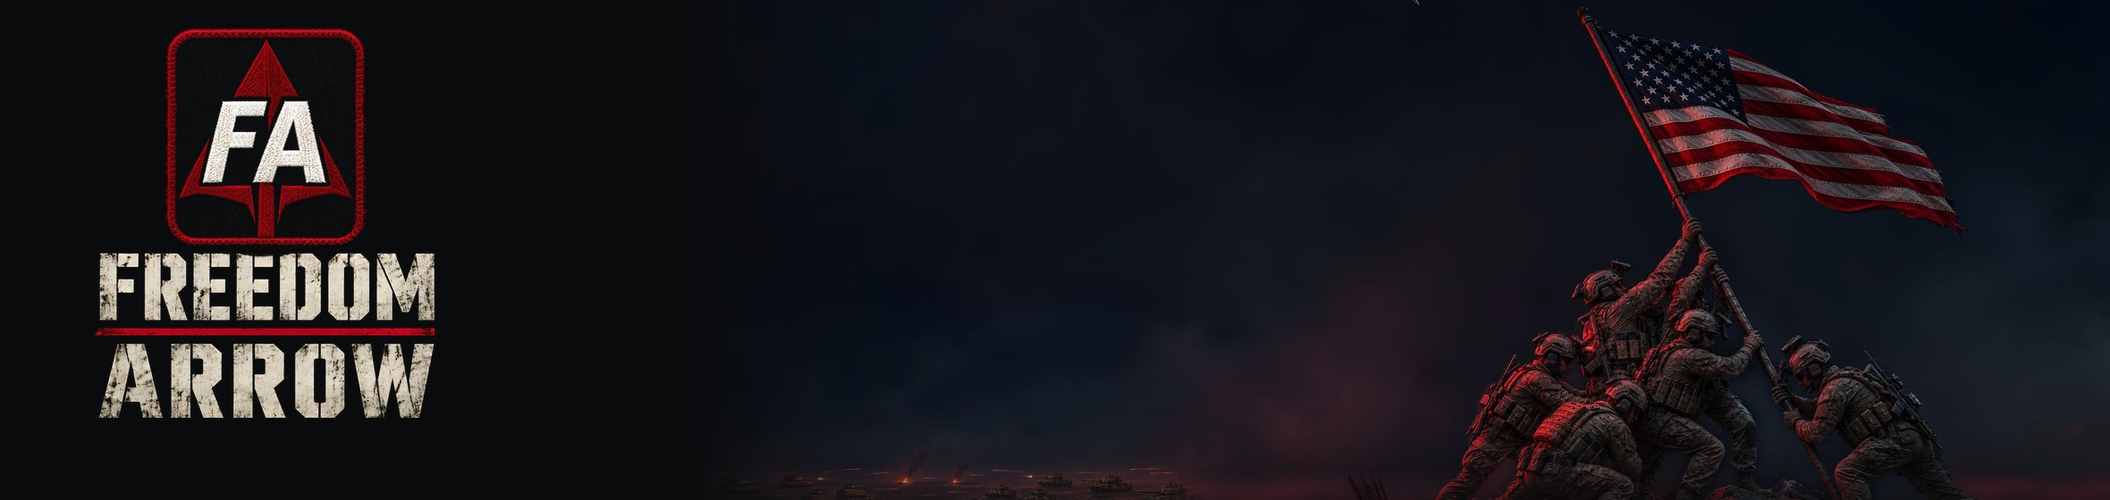
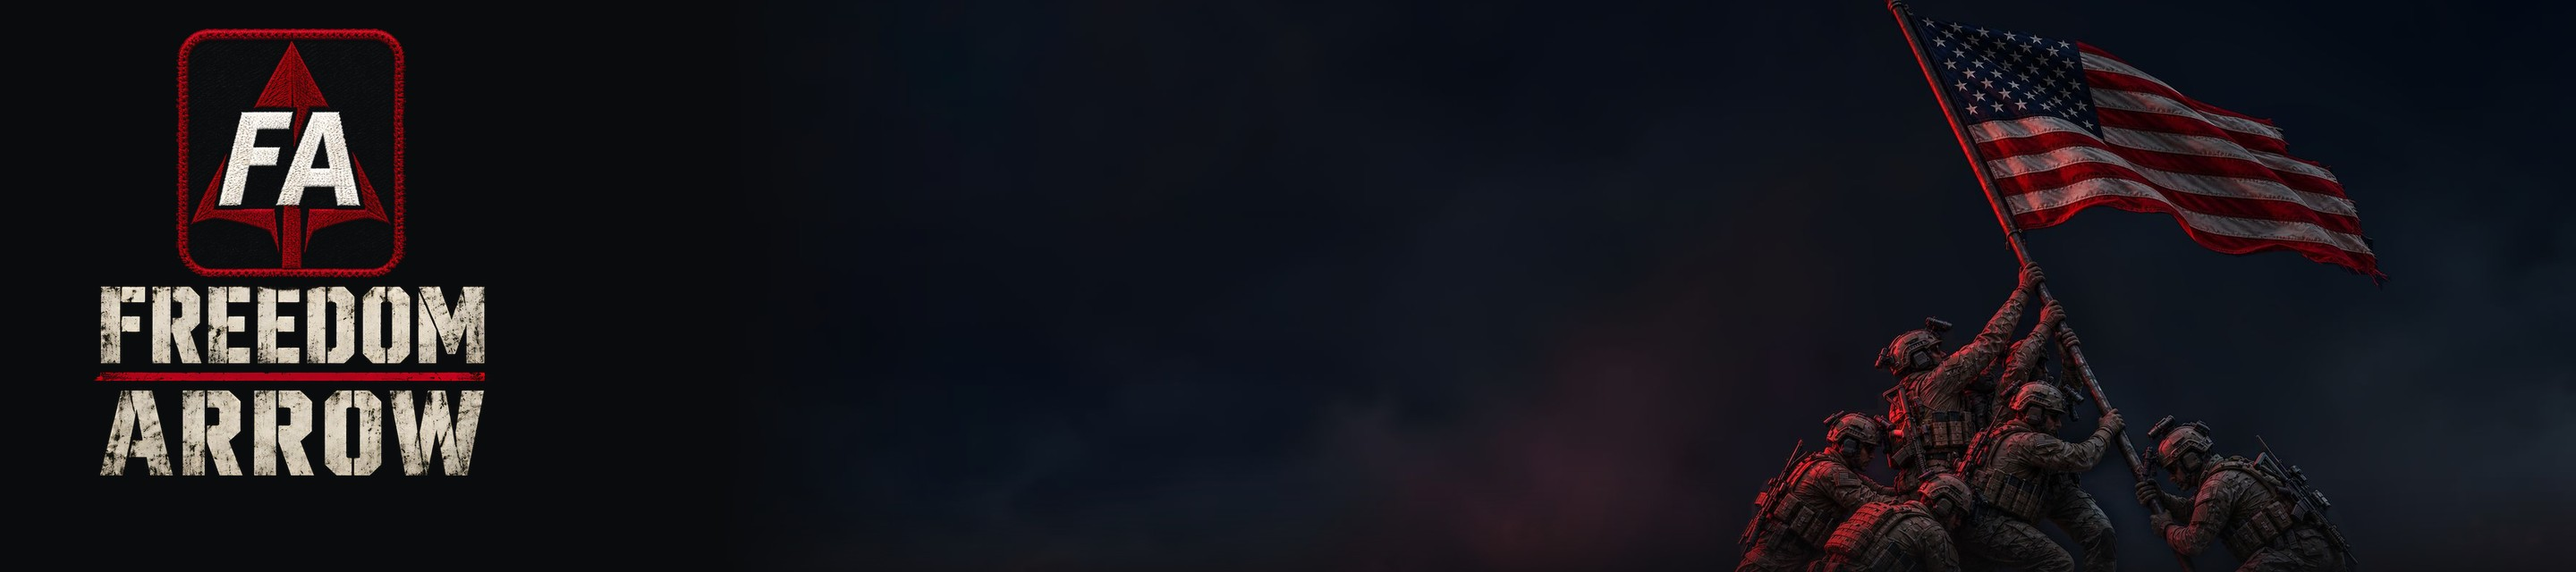
Launcher 1.1.15: 1440x960 window, News column 960 px (Osama: more room for news and patch notes)
- 1440x960 window, 1440x320 header (new fa_banner.jpg from make_launcher_banner.py),
  News 960 px: features and patch notes about 450 px each, slimmer stat tiles,
  'Full notes' link beside the PATCH NOTES heading, feature picture right under its text.
- FitScreen: on smaller screens the News column narrows (to 520), then the window
  height and header shrink; the PLAY column never does. Header buttons and the
  version tag stay at the top right at any width.

diff --git a/thirdparty-tools/BAModManager-main/Ui/NewsPanel.cs b/thirdparty-tools/BAModManager-main/Ui/NewsPanel.cs
@@ -11,7 +11,7 @@ namespace BAModManager.Ui;
 /// </summary>
 internal sealed class NewsPanel : Panel
 {
-    private readonly StatTiles _tiles = new() { Dock = DockStyle.Top, Height = 78 };
+    private readonly StatTiles _tiles = new() { Dock = DockStyle.Top, Height = 68 };
     private readonly RichTextBox _notes;
     private readonly Button _more;
     private string _link = LauncherNews.Site;
@@ -43,15 +43,16 @@ internal sealed class NewsPanel : Panel
         };
         // Windows 10/11 dark scroll bar, like the rest of the launcher (ignored where the theme doesn't exist)
         _notes.HandleCreated += (_, _) => { try { SetWindowTheme(_notes.Handle, "DarkMode_Explorer", null); } catch (Exception) { } };
-        _more = Theme.MakeButton(T("Full patch notes and statistics →"), ButtonKind.Ghost);
-        _more.Dock = DockStyle.Bottom;
-        _more.AutoSize = false;
-        _more.Height = 34;
+        _more = Theme.MakeButton(T("Full notes →"), ButtonKind.Ghost);
+        _more.Dock = DockStyle.Right;   // beside the PATCH NOTES heading, so the notes get the height
+        _more.AutoSize = true;
         _more.Click += (_, _) => LauncherNews.Open(_link);
 
         _featureTitle = new Label { Dock = DockStyle.Top, Height = 28, Font = Theme.Head(15f), ForeColor = Theme.Text, BackColor = Theme.Panel, UseMnemonic = false };
-        _featureText = new Label { Dock = DockStyle.Top, Height = 62, ForeColor = Theme.TextMuted, BackColor = Theme.Panel, UseMnemonic = false };
-        _featureImage = new PictureBox { Dock = DockStyle.Fill, SizeMode = PictureBoxSizeMode.Zoom, BackColor = Theme.Panel, Cursor = Cursors.Hand };
+        _featureText = new Label { Dock = DockStyle.Top, Height = 48, ForeColor = Theme.TextMuted, BackColor = Theme.Panel, UseMnemonic = false };
+        // full column width, its own height: the picture sits right under the text
+        _featureImage = new PictureBox { Dock = DockStyle.Top, SizeMode = PictureBoxSizeMode.Zoom, BackColor = Theme.Panel, Cursor = Cursors.Hand, Height = 0 };
+        _featureImage.Resize += (_, _) => FitImage();
         _featureImage.Click += (_, _) => LauncherNews.Open(LauncherNews.Site);
         _feature = new Panel { Dock = DockStyle.Fill, BackColor = Theme.Panel, Margin = new Padding(0, 0, 14, 0) };
         _feature.Controls.Add(_featureImage);
@@ -60,9 +61,13 @@ internal sealed class NewsPanel : Panel
         _feature.Controls.Add(_featureTitle);
         _feature.Controls.Add(Title(T("NEW FEATURES")));
         var notes = new Panel { Dock = DockStyle.Fill, BackColor = Theme.Panel, Margin = new Padding(14, 0, 0, 0) };
+        var notesHead = new Panel { Dock = DockStyle.Top, Height = 30, BackColor = Theme.Panel };
+        var notesTitle = Title(T("PATCH NOTES"));
+        notesTitle.Dock = DockStyle.Fill;
+        notesHead.Controls.Add(notesTitle);
+        notesHead.Controls.Add(_more);
         notes.Controls.Add(_notes);
-        notes.Controls.Add(Title(T("PATCH NOTES")));
-        notes.Controls.Add(_more);
+        notes.Controls.Add(notesHead);
         _cols = new TableLayoutPanel { Dock = DockStyle.Fill, BackColor = Theme.Panel, ColumnCount = 2, RowCount = 1, Margin = Padding.Empty, Padding = Padding.Empty };
         _cols.ColumnStyles.Add(new ColumnStyle(SizeType.Absolute, 0));   // the features column opens when a feature arrives
         _cols.ColumnStyles.Add(new ColumnStyle(SizeType.Percent, 100));
@@ -72,7 +77,7 @@ internal sealed class NewsPanel : Panel
 
         // Docked top controls are added bottom-up
         Controls.Add(_cols);
-        Controls.Add(Gap(14));
+        Controls.Add(Gap(12));
         Controls.Add(_tiles);
         Controls.Add(Title(T("BATTLEFIELD REPORT")));
         ShowText(T("Loading news…"));
@@ -111,8 +116,16 @@ internal sealed class NewsPanel : Panel
         {
             _imageData = new MemoryStream(bytes);
             _featureImage.Image = Image.FromStream(_imageData);   // PictureBox plays an animated GIF by itself
+            FitImage();
         }
         catch (Exception) { _imageData = null; }
+    }
+
+    private void FitImage()
+    {
+        if (_featureImage.Image is not Image img || img.Width == 0) return;
+        var h = _featureImage.Width * img.Height / img.Width;
+        if (_featureImage.Height != h) _featureImage.Height = h;
     }
 
     private void ShowText(string text)
@@ -242,7 +255,7 @@ internal sealed class NewsPanel : Panel
             int gap = LogicalToDeviceUnits(8);
             int w = (Width - 3 * gap) / 4, h = Height;   // one row of 4
             using var label = Theme.Head(9.5f, semi: true);
-            using var value = Theme.Head(21f);
+            using var value = Theme.Head(19f);
             using var sub = Theme.Ui(8.25f);
             for (int i = 0; i < items.Length; i++)
             {
@@ -254,8 +267,8 @@ internal sealed class NewsPanel : Panel
                 int pad = LogicalToDeviceUnits(10);
                 var f = TextFormatFlags.NoPadding | TextFormatFlags.NoPrefix | TextFormatFlags.EndEllipsis;
                 TextRenderer.DrawText(g, items[i].Label, label, new Rectangle(r.X + pad, r.Y + LogicalToDeviceUnits(8), r.Width - 2 * pad, LogicalToDeviceUnits(16)), Theme.TextMuted, f);
-                TextRenderer.DrawText(g, items[i].Value?.ToString("N0") ?? "—", value, new Rectangle(r.X + pad, r.Y + LogicalToDeviceUnits(24), r.Width - 2 * pad, LogicalToDeviceUnits(32)), Theme.Text, f);
-                TextRenderer.DrawText(g, items[i].Sub, sub, new Rectangle(r.X + pad, r.Bottom - LogicalToDeviceUnits(19), r.Width - 2 * pad, LogicalToDeviceUnits(15)), Theme.TextMuted, f);
+                TextRenderer.DrawText(g, items[i].Value?.ToString("N0") ?? "—", value, new Rectangle(r.X + pad, r.Y + LogicalToDeviceUnits(21), r.Width - 2 * pad, LogicalToDeviceUnits(28)), Theme.Text, f);
+                TextRenderer.DrawText(g, items[i].Sub, sub, new Rectangle(r.X + pad, r.Bottom - LogicalToDeviceUnits(18), r.Width - 2 * pad, LogicalToDeviceUnits(15)), Theme.TextMuted, f);
             }
         }
     }

diff --git a/thirdparty-tools/BAModManager-main/Ui/LauncherForm.cs b/thirdparty-tools/BAModManager-main/Ui/LauncherForm.cs
@@ -62,12 +62,13 @@ internal sealed class LauncherForm : Form
         // condensed headings, and a progress panel that shows steps, MB, speed, time left and when data last arrived.
         // 1.1.15 (Osama 22 Nov 2026): a News column on the right with the Battlefield report and the patch notes.
         // Osama 22 Nov 2026: "make the launcher bigger so more of it is art", "or just more space, its very cramped":
-        // a full-width 1180x280 header and a wider News column. On a short screen (Steam Deck, 800 px) the header gives up
+        // a full-width 1440x320 header and a wide News column. On a smaller screen the window shrinks to fit: the header gives up
         // height first (FitScreen).
-        _news = new NewsPanel { Dock = DockStyle.Right, Width = 700 };   // features and patch notes side by side
-        ClientSize = new Size(1180, 820);
+        // Osama 22 Nov 2026: "news and patch notes should be able to get more room", "no one is playing on steam deck"
+        _news = new NewsPanel { Dock = DockStyle.Right, Width = DesignNewsWidth };   // features and patch notes side by side
+        ClientSize = new Size(DesignWidth, DesignHeight);
         Padding = new Padding(0);
-        var header = new FaBanner(MainForm.LoadEmbeddedImage("Assets.fa_banner.jpg")) { Dock = DockStyle.Top, Height = 280 };
+        var header = new FaBanner(MainForm.LoadEmbeddedImage("Assets.fa_banner.jpg")) { Dock = DockStyle.Top, Height = DesignHeaderHeight };
         // 中文 / English switch, like the button on freedomarrow.app (Osama 21 Nov 2026: "Make sure there's a Chinese switch").
         _lang = Theme.MakeButton(Loc.IsChinese ? "English" : "中文", ButtonKind.Secondary);
         _lang.AutoSize = false;
@@ -75,7 +76,7 @@ internal sealed class LauncherForm : Form
         _lang.MinimumSize = new Size(0, 0);
         _lang.Padding = new Padding(0);
         _lang.Margin = new Padding(0);
-        _lang.Location = new Point(1180 - 72 - 14, 9);
+        _lang.Location = new Point(DesignWidth - 72 - 14, 9);
         _lang.Font = Loc.IsChinese ? Theme.Head(10.5f, semi: true) : new Font("Microsoft YaHei UI", 9f, FontStyle.Bold);
         _lang.BackColor = Theme.Background;
         _lang.Click += (_, _) => ToggleChinese();
@@ -88,7 +89,13 @@ internal sealed class LauncherForm : Form
         site.MinimumSize = new Size(0, 0);
         site.Margin = new Padding(0);
         site.Font = Theme.Head(16f);
-        site.Location = new Point(1180 - 270 - 14, 44);
+        site.Location = new Point(DesignWidth - 270 - 14, 44);
+        // keep both buttons at the top right when the window is narrowed for a small screen (FitScreen)
+        header.Resize += (_, _) =>
+        {
+            _lang.Left = header.Width - _lang.Width - header.LogicalToDeviceUnits(14);
+            site.Left = header.Width - site.Width - header.LogicalToDeviceUnits(14);
+        };
         site.Click += (_, _) => LauncherNews.Open(LauncherNews.Site);
         header.Controls.Add(site);
         var body = new Panel { Dock = DockStyle.Fill, BackColor = Theme.Background, Padding = new Padding(28, 14, 28, 12) };
@@ -300,20 +307,37 @@ internal sealed class LauncherForm : Form
     }
 
     /// <summary>The window taller than the screen (Steam Deck 1280x800): shrink the header art, never the controls.</summary>
+    private const int DesignWidth = 1440, DesignHeight = 960, DesignHeaderHeight = 320, DesignNewsWidth = 960;
+
     private void FitScreen()
     {
-        if (_header == null) return;
+        if (_header == null || _news == null) return;
         // Sizes as designed: Wine/Proton already clamps the window to the screen, so ClientSize may be smaller here.
-        int want = LogicalToDeviceUnits(820), header = LogicalToDeviceUnits(280), frame = Height - ClientSize.Height;
-        // Wine/Proton: + room for a title bar it doesn't count
+        int want = LogicalToDeviceUnits(DesignHeight), header = LogicalToDeviceUnits(DesignHeaderHeight), minHeader = LogicalToDeviceUnits(190),
+            minBody = LogicalToDeviceUnits(540), frameH = Height - ClientSize.Height, frameW = Width - ClientSize.Width;
         var area = Screen.FromControl(this).WorkingArea;
-        var over = want + frame + (LinuxSteam.IsWine ? LogicalToDeviceUnits(40) : 0) - area.Height;
-        if (over <= 0) return;
-        var cut = Math.Min(over, header - LogicalToDeviceUnits(190));
-        _header.Height = header - cut;
-        ClientSize = new Size(ClientSize.Width, want - cut);
+        // Wine/Proton: + room for a title bar it doesn't count
+        var over = want + frameH + (LinuxSteam.IsWine ? LogicalToDeviceUnits(40) : 0) - area.Height;
+        // Too wide (e.g. a 1366x768 laptop): the News column gets narrower, never below 520.
+        var overW = LogicalToDeviceUnits(DesignWidth) + frameW - area.Width;
+        int width = LogicalToDeviceUnits(DesignWidth);
+        if (overW > 0)
+        {
+            var cutW = Math.Min(overW, LogicalToDeviceUnits(DesignNewsWidth - 520));
+            _news.Width = LogicalToDeviceUnits(DesignNewsWidth) - cutW;
+            width -= cutW;
+        }
+        if (over <= 0 && overW <= 0) return;
+        if (over > 0)
+        {
+            // The News column gives up its extra height first, then the header art shrinks; the PLAY column never does.
+            var headerCut = Math.Clamp(over - (want - header - minBody), 0, header - minHeader);
+            _header.Height = header - headerCut;
+            want = Math.Max(want - over, _header.Height + minBody);
+        }
+        ClientSize = new Size(width, want);
         StartPosition = FormStartPosition.Manual;
-        Location = new Point(area.Left + Math.Max(0, (area.Width - Width) / 2), area.Top);
+        Location = new Point(area.Left + Math.Max(0, (area.Width - Width) / 2), area.Top + Math.Max(0, (area.Height - Height) / 2));
     }
 
     protected override void OnHandleCreated(EventArgs e)

diff --git a/thirdparty-tools/BAModManager-main/Ui/FaBanner.cs b/thirdparty-tools/BAModManager-main/Ui/FaBanner.cs
@@ -8,12 +8,12 @@ namespace BAModManager.Ui;
 /// 1.1.14 (Osama 21 Nov 2026, "make the launcher fit our website art style"): the launcher header, like the freedomarrow.app hero.
 /// Assets/fa_banner.jpg is the 0.9.3 in-game menu art with the approved title logo (site/menu-bg.jpg + site/title.webp), drawn at
 /// 1120x440 for a 560x220 header at 200 % scale. 1.1.15 (Osama 22 Nov 2026, "make the launcher bigger so more of it is art"):
-/// a full-width 1180x280 header (2360x560, tools/distribution/make_launcher_banner.py): the art right-aligned, the logo on the left. The OPEN ALPHA badge and the launcher version are drawn here so they stay sharp
+/// a full-width 1440x320 header (2880x640, tools/distribution/make_launcher_banner.py): the art right-aligned, the logo on the left. The OPEN ALPHA badge and the launcher version are drawn here so they stay sharp
 /// and follow the language.
 /// </summary>
 internal sealed class FaBanner : Control
 {
-    private const float DesignWidth = 1180f;
+    private const float DesignWidth = 1440f;
     private readonly Image? _art;
 
     /// <summary>Space kept free at the top right (design pixels) for the language button.</summary>
@@ -46,12 +46,12 @@ internal sealed class FaBanner : Control
             g.DrawImage(_art, new RectangleF(x0, 0, Width - x0, Math.Min(h, Height)));
         }
 
-        // OPEN ALPHA badge centred under the logo (logo box 52..247 x 16..234 at design size).
+        // OPEN ALPHA badge centred under the logo (logo box 52..275 x 16..266 at design size).
         var badge = T("OPEN ALPHA");
         using (var f = Theme.Head(10.5f))
         {
             var size = TextRenderer.MeasureText(g, badge, f, Size.Empty, TextFormatFlags.NoPadding);
-            float bw = size.Width + 18 * s, bh = 23 * s, bx = x0 + 149.5f * s - bw / 2, by = 243 * s;
+            float bw = size.Width + 18 * s, bh = 23 * s, bx = x0 + 163.5f * s - bw / 2, by = 274 * s;
             using (var p = Theme.RoundRect(new RectangleF(bx, by, bw, bh), 3 * k))
             using (var b = new SolidBrush(Theme.Accent))
                 g.FillPath(b, p);
@@ -64,7 +64,7 @@ internal sealed class FaBanner : Control
         using (var f = Theme.Head(9f, semi: true))
         {
             var size = TextRenderer.MeasureText(g, version, f, Size.Empty, TextFormatFlags.NoPadding);
-            var r = new RectangleF(Width - size.Width - (26 + RightInset) * k, 12 * k, size.Width + 14 * k, 19 * k);
+            var r = new RectangleF(Width - size.Width - LogicalToDeviceUnits(26 + RightInset), LogicalToDeviceUnits(12), size.Width + LogicalToDeviceUnits(14), LogicalToDeviceUnits(19));   // fixed to the language button, whatever the width
             using (var p = Theme.RoundRect(r, 3 * k))
             using (var b = new SolidBrush(Color.FromArgb(150, 0, 0, 0)))
             using (var edge = new Pen(Color.FromArgb(40, 255, 255, 255)))

diff --git a/tools/distribution/make_launcher_banner.py b/tools/distribution/make_launcher_banner.py
@@ -1,13 +1,13 @@
-# Wide launcher header (1180x280 design, drawn at 2x): menu art scaled to the header height, right-aligned,
+# Wide launcher header (1440x320 design, drawn at 2x): menu art scaled to the header height, right-aligned,
 # faded into the site's background on the left, with the approved title logo on the left.
 from PIL import Image, ImageDraw
 import sys
 bg = Image.open(sys.argv[1]).convert('RGB')          # site/menu-bg.jpg 2560x1440
 title = Image.open(sys.argv[2]).convert('RGBA')      # site/title.webp 501x560
 out = sys.argv[3]
-W, H = 2360, 560
+W, H = 2880, 640
 BG = (0x0A, 0x0B, 0x0D)
-y0, y1 = 270, 1170                                   # flag top .. soldiers' knees, like the old banner
+y0, y1 = 300, 1090                                   # flag top .. soldiers' waists: the scene as large as the header allows
 crop = bg.crop((0, y0, 2560, y1))
 s = H / crop.height
 art = crop.resize((round(crop.width * s), H), Image.LANCZOS)
@@ -15,7 +15,7 @@ canvas = Image.new('RGB', (W, H), BG)
 x = W - art.width
 canvas.paste(art, (x, 0))
 # fade the art's left edge into the background
-fade = 300
+fade = 340
 mask = Image.new('L', (W, H), 0)
 d = ImageDraw.Draw(mask)
 for i in range(fade):
@@ -27,7 +27,7 @@ grad = Image.new('L', (W, H), 0); gd = ImageDraw.Draw(grad)
 for yy in range(H - 120, H):
     gd.line([(0, yy), (W, yy)], fill=round(150 * ((yy - (H - 120)) / 120) ** 1.5))
 canvas = Image.composite(Image.new('RGB', (W, H), BG), canvas, grad)
-th = 436
+th = 500
 t = title.resize((round(title.width * th / title.height), th), Image.LANCZOS)
 canvas.paste(t, (104, 32), t)
 canvas.save(out, quality=90)

diff --git a/thirdparty-tools/BAModManager-main/Core/Translations.cs b/thirdparty-tools/BAModManager-main/Core/Translations.cs
@@ -534,7 +534,7 @@ public static partial class Loc
         ["Mod {0}"] = new[] { "Mod {0}", "Mod {0}", "Мод {0}", "模组 {0}" },
         ["Models & music {0}"] = new[] { "Modelle & Musik {0}", "Modèles & musique {0}", "Модели и музыка {0}", "模型和音乐 {0}" },
         // 1.1.15 News panel
-        ["Full patch notes and statistics →"] = new[] { "Vollständige Patchnotes und Statistiken →", "Notes de patch complètes et statistiques →", "Полные патчноуты и статистика →", "完整补丁说明和统计 →" },
+        ["Full notes →"] = new[] { "Alle Notizen →", "Notes complètes →", "Полностью →", "完整说明 →" },
         ["PATCH NOTES"] = new[] { "PATCHNOTES", "NOTES DE PATCH", "ПАТЧНОУТЫ", "补丁说明" },
         ["BATTLEFIELD REPORT"] = new[] { "LAGEBERICHT", "RAPPORT DU CHAMP DE BATAILLE", "СВОДКА С ПОЛЯ БОЯ", "战场报告" },
         ["Loading news…"] = new[] { "Neuigkeiten werden geladen…", "Chargement des nouvelles…", "Загрузка новостей…", "正在加载新闻…" },
